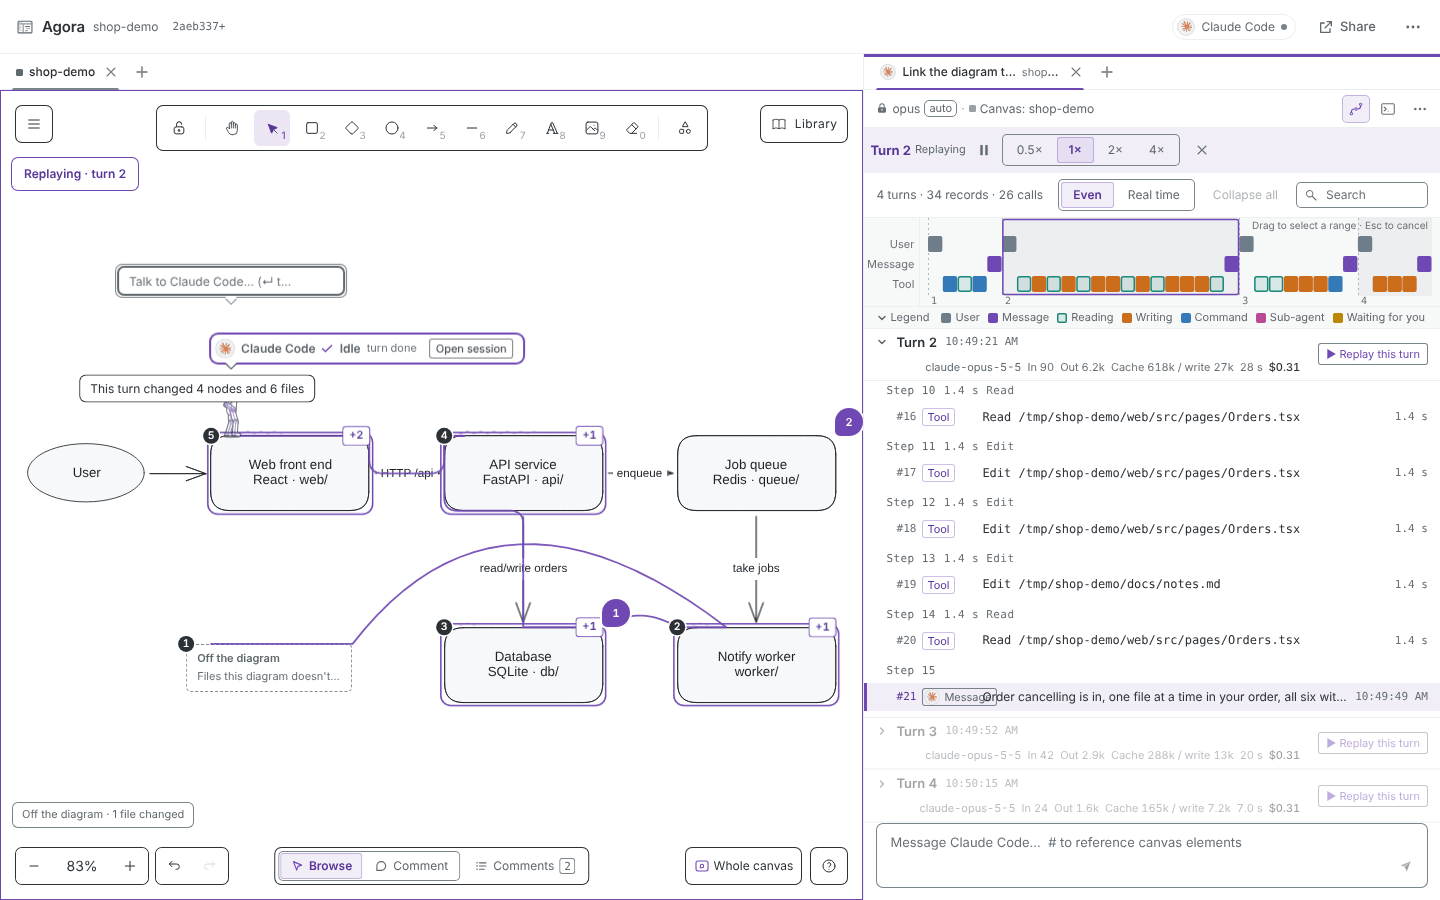
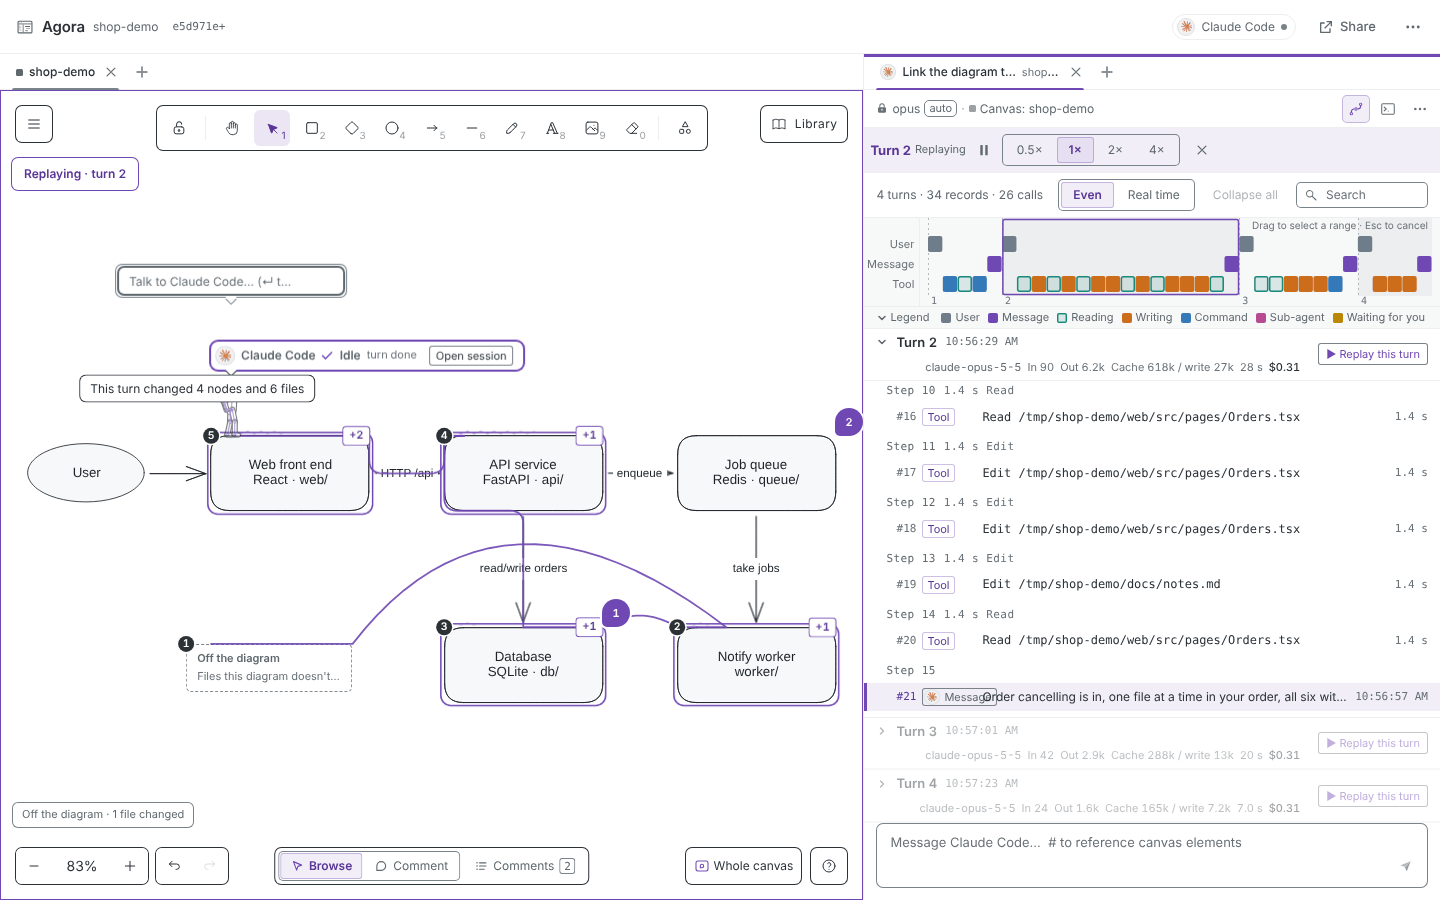
英文截图去掉提示词里的「Reply in English.」前缀并重拍；总览帧在截图前后各查一次气泡，避开写完切换的那一帧
替身按提示词里有没有中文决定回复语言，不需要这个前缀。

Claude-Session: https://claude.ai/code/session_01Ukd8vocJetaw7cVJYXGV5C

Changed region(s): [[0.125, 0.3422, 0.375, 0.4356], [0.125, 0.0, 0.1562, 0.0311]]

diff --git a/web/scripts/readme-shots.ts b/web/scripts/readme-shots.ts
@@ -76,12 +76,12 @@ const T = {
     readme: "# shop-demo\n\nA tiny shop: React front end, FastAPI, SQLite, a Redis job queue and a notification worker.\n",
     notes: "# Notes\n\n- Orders are created through `POST /api/orders`.\n",
     turns: [
-      "Link the diagram to the code by its structure: each node gets its directory. Reply in English, in a sentence or two.",
-      "Reply in English. Add order cancelling: handle order_cancelled in worker/main.py, cancel_order in db/repo.py, POST /orders/{id}/cancel in api/routes/orders.py that enqueues order_cancelled, a cancel button in web/src/api.ts and web/src/pages/Orders.tsx; finally one line in docs/notes.md. Change them one by one in this order with the edit tools, then sum up in a list.",
-      "Reply in English. Add refunds: a new api/routes/refunds.py with POST /orders/{id}/refund (404 when the order does not exist, cancelled orders cannot be refunded), registered in api/server.py. Use the edit tools, not the shell, to write files. Sum up in two or three sentences.",
-      "Reply in English. Wire refunds into the front end: refundOrder(id) in web/src/api.ts and a Refund button on every row in web/src/pages/Orders.tsx. Use the edit tools. Sum up in a sentence or two.",
+      "Link the diagram to the code by its structure: each node gets its directory. Sum up in a sentence or two.",
+      "Add order cancelling: handle order_cancelled in worker/main.py, cancel_order in db/repo.py, POST /orders/{id}/cancel in api/routes/orders.py that enqueues order_cancelled, a cancel button in web/src/api.ts and web/src/pages/Orders.tsx; finally one line in docs/notes.md. Change them one by one in this order with the edit tools, then sum up in a list.",
+      "Add refunds: a new api/routes/refunds.py with POST /orders/{id}/refund (404 when the order does not exist, cancelled orders cannot be refunded), registered in api/server.py. Use the edit tools, not the shell, to write files. Sum up in two or three sentences.",
+      "Wire refunds into the front end: refundOrder(id) in web/src/api.ts and a Refund button on every row in web/src/pages/Orders.tsx. Use the edit tools. Sum up in a sentence or two.",
     ],
-    retryTurn: "Reply in English. Add an amount check to the refund endpoint in api/routes/refunds.py (the amount must be above 0, else 422). Use the edit tools. Sum up in a sentence or two.",
+    retryTurn: "Add an amount check to the refund endpoint in api/routes/refunds.py (the amount must be above 0, else 422). Use the edit tools. Sum up in a sentence or two.",
     terminalTurn: "In one sentence, how does worker/main.py handle jobs now? Do not change any file.",
     comments: { db: "Should production move to Postgres? SQLite won't take concurrent writes.", queue: "What happens when the queue fills up? Add a dead-letter queue?" },
     guest: "Alex",
@@ -225,10 +225,8 @@ async function turn(text: string, during?: () => Promise<void>) {
  *  was in the frame before. Frames are taken all through the turn and the best one is written when it ends. */
 async function whenWriting(n: string, prefix: string, node: string) {
   const at = await nodeAt(first(node));
-  let last: string | null = null;
-  let best: { buf: Buffer; still: boolean } | null = null;
   const seen = new Set<string>();
-  while (await page.locator(".sp-stop").count()) {
+  const probe = async () => {
     const now = await page.evaluate((prefix) => {
       const ps = [...document.querySelectorAll<HTMLElement>(".ws-bub-pos")].filter((p) => p.style.visibility !== "hidden");
       const kinds = ps.map((p) => `${p.querySelector(".ws-bub")?.getAttribute("data-k")}:${p.innerText.replace(/\s+/g, " ").slice(0, 50)}`);
@@ -236,15 +234,22 @@ async function whenWriting(n: string, prefix: string, node: string) {
       const r = p?.getBoundingClientRect();
       return { at: r ? `${Math.round(r.x / 2)},${Math.round(r.y / 2)}` : null, cx: r ? r.x + r.width / 2 : 0, kinds };
     }, prefix);
-    // and standing on that node: the bubble names the file before the walk there is over
-    if (Math.abs(now.cx - at.x) > at.right - at.x) now.at = null;
     now.kinds.filter((k) => !k.startsWith("think:")).forEach((k) => seen.add(k.replace(/\d+(\.\d+)? 秒|\d+(\.\d+)?s\b/g, "")));
+    // and standing on that node: the bubble names the file before the walk there is over
+    return Math.abs(now.cx - at.x) > at.right - at.x ? null : now.at;
+  };
+  let last: string | null = null;
+  let best: { buf: Buffer; still: boolean } | null = null;
+  while (await page.locator(".sp-stop").count()) {
+    const before = await probe();
     const buf = await page.screenshot();
-    if (now.at) {
-      const still = now.at === last;
+    // the same write bubble, in the same place, on both sides of the screenshot: not a frame where it is changing over
+    const after = await probe();
+    if (before && before === after) {
+      const still = before === last;
       if (!best || (still && !best.still) || still === best.still) best = { buf, still };
     }
-    last = now.at;
+    last = after;
   }
   if (!best) return console.log(`(${n}: no write under ${prefix} seen; bubbles were: ${[...seen].slice(0, 30).join(" | ")})`);
   await shot(n, best.buf);
